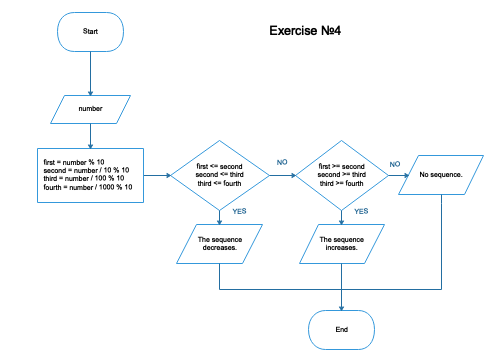
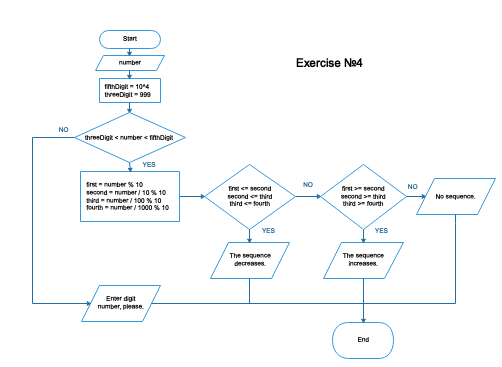
Changed

diff --git a/Task1/src/Fifth/Average.java b/Task1/src/Fifth/Average.java
@@ -13,21 +13,26 @@ public class Average {
             if (number < 0) {
                 number = -number;
             }
-
-            // название переменной - номер цифры справа исходного числа
-            int first = number % 10;
-            int second = number / 10 % 10;
-            int third = number / 100 % 10;
-            int fourth = number / 1000 % 10;
-            int fifth = number / 10000 % 10;
-            int sixth = number / 100000 % 10;
-            int sumOfNumbers = first + second + third + fourth + fifth + sixth;
-            double multOfNumbers = first * second * third * fourth * fifth * sixth;
-            double arithmMean = (double) sumOfNumbers / 6;
-            double geomMean = Math.pow(multOfNumbers, 1.0 / 6);
-            System.out.println("The arithmetic mean of " + number + ": " + arithmMean);
-            System.out.println("The geometric mean of " + number + ": " + geomMean);
-
+            int sevenDigit = (int)Math.pow(10, 6);
+            int fiveDigit = 99999;
+            if (number < sevenDigit && number > fiveDigit) {
+                // название переменной - номер цифры справа исходного числа
+                int first = number % 10;
+                int second = number / 10 % 10;
+                int third = number / 100 % 10;
+                int fourth = number / 1000 % 10;
+                int fifth = number / 10000 % 10;
+                int sixth = number / 100000 % 10;
+                int sumOfNumbers = first + second + third + fourth + fifth + sixth;
+                double multOfNumbers = first * second * third * fourth * fifth * sixth;
+                double arithmMean = (double) sumOfNumbers / 6;
+                double geomMean = Math.pow(multOfNumbers, 1.0 / 6);
+                System.out.println("The arithmetic mean of " + number + ": " + arithmMean);
+                System.out.println("The geometric mean of " + number + ": " + geomMean);
+            }
+            else {
+                System.out.println("Enter six-digit number, please.");
+            }
             /* variant no.2
             int numb[] = new int[6];
             for (int i = 0; i < 6; i++) {
@@ -40,9 +45,7 @@ public class Average {
                 multOfNumbers *= numb[i];
             }
             double arithmMean = (double) sumOfNumbers / 6;
-            double geomMean = Math.pow(multOfNumbers, 1.0 / 6);
-            System.out.println("The arithmetic mean of " + number + ": " + arithmMean);
-            System.out.println("The geometric mean of " + number + ": " + geomMean);*/
+            double geomMean = Math.pow(multOfNumbers, 1.0 / 6); */
         }
         catch (InputMismatchException e) {
             System.out.println("Don't use any symbols. Numbers only.");

diff --git a/Task1/src/Fourth/Raise.java b/Task1/src/Fourth/Raise.java
@@ -10,23 +10,28 @@ public class Raise {
         System.out.println("Enter digit number: ");
         try {
             int number = scanner.nextInt();
-            // название переменной - номер цифры справа исходного числа
-            int first = number % 10;
-            int second = number / 10 % 10;
-            int third = number / 100 % 10;
-            int fourth = number / 1000 % 10;
+            int fifthDigit = (int)Math.pow(10, 4);
+            int threeDigit = 999;
+            if (number < fifthDigit && number > threeDigit) {
+                // название переменной - номер цифры справа исходного числа
+                int first = number % 10;
+                int second = number / 10 % 10;
+                int third = number / 100 % 10;
+                int fourth = number / 1000 % 10;
 
-            if (first <= second && second <= third &&  third <= fourth) {
-                System.out.println("The sequence decreases.");
-            }
-            else if (first >= second && second >= third && third >= fourth) {
-                System.out.println("The sequence increases.");
+                if (first <= second && second <= third && third <= fourth) {
+                    System.out.println("The sequence decreases.");
+                } else if (first >= second && second >= third && third >= fourth) {
+                    System.out.println("The sequence increases.");
+                } else {
+                    System.out.println("No sequence.");
+                }
             }
             else {
-                System.out.println("No sequence.");
+                System.out.println("Enter digit number, please.");
             }
-
             /*
+            //variant no.2
             int numb[] = new int[4];
             for (int i = 0; i < 4; i++) {
                 numb[i] = number / (int)Math.pow(10, i) % 10;

diff --git a/Task1/src/Sixth/Reverse.java b/Task1/src/Sixth/Reverse.java
@@ -10,8 +10,8 @@ public class Reverse {
         Scanner scanner = new Scanner(System.in);
         try {
             int number = scanner.nextInt();
-            int sixDigit = (int)Math.pow(10, 6);
-            int eightDigit = (int)Math.pow(10, 8);
+            int sixDigit = 999999;
+            int eightDigit = (int)Math.pow(10, 7);
             if (number < eightDigit && number > sixDigit) {
                 System.out.println("For number " + number + " the inverted number: " + reverse(number));
             }
@@ -26,10 +26,10 @@ public class Reverse {
 
     private static int reverse(int numb) {
 
-            // название переменной - номер цифры справа
+            // название переменной - номер цифры справа исходного числа
             int first = numb % 10;
-            int second = numb / (int) Math.pow(10, 1) % 10;
-            int third = numb / (int) Math.pow(10, 2) % 10;
+            int second = numb / 10 % 10;
+            int third = numb / 100 % 10;
             int forth = numb / (int) Math.pow(10, 3) % 10;
             int fifth = numb / (int) Math.pow(10, 4) % 10;
             int sixth = numb / (int) Math.pow(10, 5) % 10;
